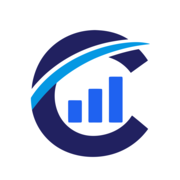
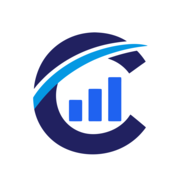
refactor(ui): unify circular product mark rendering

Changed region(s): [[0.1667, 0.1667, 0.8333, 0.8889], [0.25, 0.3889, 0.4167, 0.6389], [0.75, 0.3611, 0.7778, 0.3889]]

diff --git a/src/components/layout/sidebar.tsx b/src/components/layout/sidebar.tsx
@@ -1,11 +1,11 @@
 "use client";
 
-import Image from "next/image";
 import Link from "next/link";
 import { usePathname } from "next/navigation";
 import { PanelLeftClose } from "lucide-react";
 import { Button } from "@/components/ui/button";
 import { Tooltip, TooltipContent, TooltipProvider, TooltipTrigger } from "@/components/ui/tooltip";
+import { CloieLogoMark } from "@/components/brand/cloie-logo-mark";
 import { cn } from "@/lib/utils";
 import type { Role } from "@/lib/constants/roles";
 import {
@@ -22,9 +22,8 @@ import {
 import { ROLES } from "@/lib/constants/roles";
 import { NavigationRow } from "./navigation-row";
 
-// The mark carries no white fills of its own; the dark-mode plate only keeps its
-// navy shapes legible against the dark sidebar.
-const LOGO_CLASS_NAME = "h-10 w-auto dark:bg-white";
+// The plate keeps the navy artwork legible against the dark sidebar.
+const LOGO_CLASS_NAME = "h-10";
 const NAV_ID = "app-sidebar-nav";
 /** A rail delay keeps labels from flickering as the pointer crosses the rail. */
 const TOOLTIP_DELAY = 300;
@@ -354,13 +353,7 @@ function SidebarHeader({ collapsed, onToggle, href, railBelowLg = false }: Sideb
                     "motion-safe:animate-in motion-safe:fade-in-0 motion-safe:duration-150"
                   )}
                 >
-                  <Image
-                    src="/logos/cloie-logo.svg"
-                    alt="System CLOIE"
-                    width={442}
-                    height={500}
-                    className="h-8 w-auto dark:bg-white"
-                  />
+                  <CloieLogoMark className="h-8" />
                 </Button>
               }
             />
@@ -385,13 +378,7 @@ function SidebarHeader({ collapsed, onToggle, href, railBelowLg = false }: Sideb
         aria-label="System CLOIE — Dashboard"
         className="focus-visible:outline-ring flex items-center gap-3 rounded-md transition-opacity hover:opacity-80 focus-visible:outline-2 focus-visible:outline-offset-2"
       >
-        <Image
-          src="/logos/cloie-logo.svg"
-          alt="System CLOIE"
-          width={442}
-          height={500}
-          className={LOGO_CLASS_NAME}
-        />
+        <CloieLogoMark className={LOGO_CLASS_NAME} />
         <span
           className={cn(
             "text-link text-title-lg font-bold tracking-tight",

diff --git a/src/app/page.tsx b/src/app/page.tsx
@@ -1,5 +1,6 @@
 import Image from "next/image";
 import Link from "next/link";
+import { CloieLogoMark } from "@/components/brand/cloie-logo-mark";
 import { Building2, CheckCircle2, GraduationCap, Users, XCircle } from "lucide-react";
 import { PortalChoiceCard, InstallAppButton } from "@/features/portals";
 import { EntryHelpFaq } from "@/features/entry";
@@ -28,13 +29,7 @@ export default function Home() {
       <header className="border-border/80 bg-background/80 relative z-10 border-b backdrop-blur-sm">
         <div className="mx-auto flex w-full max-w-7xl items-center justify-between px-4 py-4 sm:px-6 lg:px-8">
           <div className="flex items-center gap-3">
-            <Image
-              src="/logos/cloie-logo.svg"
-              alt="System CLOIE"
-              width={442}
-              height={500}
-              className="border-border h-9 w-auto shrink-0 rounded border bg-white object-contain p-0.5"
-            />
+            <CloieLogoMark className="h-9" />
             <div className="space-y-0">
               <p className="text-title-md text-link font-bold">System CLOIE</p>
               <p className="text-caption text-muted-foreground">Assumption College of Davao</p>
@@ -66,16 +61,7 @@ export default function Home() {
                 priority
               />
             </div>
-            <div className="border-border flex size-20 items-center justify-center rounded-full border bg-white sm:size-24">
-              <Image
-                src="/logos/cloie-logo.svg"
-                alt="System CLOIE"
-                width={442}
-                height={500}
-                className="h-14 w-auto object-contain sm:h-18"
-                priority
-              />
-            </div>
+            <CloieLogoMark className="size-20 sm:size-24" priority />
           </div>
 
           <h1

diff --git a/src/features/design-system/components/responsive-showcase.tsx b/src/features/design-system/components/responsive-showcase.tsx
@@ -1,4 +1,3 @@
-import Image from "next/image";
 import type { ReactNode } from "react";
 import { cn } from "@/lib/utils";
 import { ROLES } from "@/lib/constants/roles";
@@ -10,6 +9,7 @@ import {
 } from "@/lib/constants/navigation";
 import { NavigationRow, BottomNavRow } from "@/components/layout/navigation-row";
 import { MobileSidebarDrawer } from "@/components/layout/mobile-sidebar-drawer";
+import { CloieLogoMark } from "@/components/brand/cloie-logo-mark";
 
 function Frame({
   title,
@@ -43,13 +43,7 @@ function BrandRow({ rail = false }: { rail?: boolean }) {
         rail ? "justify-center px-2" : "gap-3 px-4"
       )}
     >
-      <Image
-        src="/logos/cloie-logo.svg"
-        alt="System CLOIE"
-        width={442}
-        height={500}
-        className="h-10 w-auto dark:bg-white"
-      />
+      <CloieLogoMark className="h-10" />
       {!rail && (
         <span className="text-title-md text-link font-bold tracking-tight">System CLOIE</span>
       )}
@@ -152,13 +146,7 @@ export function ResponsiveShowcase() {
         >
           <div className="border-sidebar-border flex h-16 shrink-0 items-center justify-between border-b px-3">
             <div className="flex items-center gap-3">
-              <Image
-                src="/logos/cloie-logo.svg"
-                alt="System CLOIE"
-                width={442}
-                height={500}
-                className="h-9 w-auto dark:bg-white"
-              />
+              <CloieLogoMark className="h-9" />
               <span className="text-title-md text-link font-bold tracking-tight">System CLOIE</span>
             </div>
             <MobileSidebarDrawer roles={[ROLES.SECRETARY]} />

diff --git a/src/components/layout/topbar.tsx b/src/components/layout/topbar.tsx
@@ -3,7 +3,6 @@
 import * as React from "react";
 import { useRouter } from "next/navigation";
 import { ChevronDown, LogOut } from "lucide-react";
-import Image from "next/image";
 import {
   DropdownMenu,
   DropdownMenuContent,
@@ -21,6 +20,7 @@ import {
   AlertDialogTitle,
 } from "@/components/ui/alert-dialog";
 import { Button } from "@/components/ui/button";
+import { CloieLogoMark } from "@/components/brand/cloie-logo-mark";
 import { MobileSidebarDrawer } from "./mobile-sidebar-drawer";
 import { AppearanceMenuTrigger } from "@/features/design-system/components/appearance-menu-trigger";
 import type { Role } from "@/lib/constants/roles";
@@ -82,13 +82,7 @@ export function Topbar({
           <MobileSidebarDrawer roles={roles} user={user} activeProgramId={activeProgramId} />
         ) : (
           <>
-            <Image
-              src="/logos/cloie-logo.svg"
-              alt="System CLOIE"
-              width={442}
-              height={500}
-              className="h-9 w-auto dark:bg-white"
-            />
+            <CloieLogoMark className="h-9" />
             <span className="text-title-md text-link font-bold tracking-tight">System CLOIE</span>
           </>
         )}

diff --git a/src/components/layout/mobile-sidebar-drawer.tsx b/src/components/layout/mobile-sidebar-drawer.tsx
@@ -1,11 +1,11 @@
 "use client";
 
 import { useEffect, useRef, useState } from "react";
-import Image from "next/image";
 import Link from "next/link";
 import { usePathname } from "next/navigation";
 import { Menu, X } from "lucide-react";
 import { cn } from "@/lib/utils";
+import { CloieLogoMark } from "@/components/brand/cloie-logo-mark";
 import type { Role } from "@/lib/constants/roles";
 import type { LucideIcon } from "lucide-react";
 import {
@@ -154,13 +154,7 @@ export function MobileSidebarDrawer({
               aria-label="System CLOIE — Dashboard"
               className="focus-visible:outline-ring flex items-center gap-3 rounded-md transition-opacity hover:opacity-80 focus-visible:outline-2 focus-visible:outline-offset-2"
             >
-              <Image
-                src="/logos/cloie-logo.svg"
-                alt="System CLOIE"
-                width={442}
-                height={500}
-                className="h-10 w-auto dark:bg-white"
-              />
+              <CloieLogoMark className="h-10" />
               <span className="text-title-md text-link font-bold tracking-tight">System CLOIE</span>
             </Link>
             <button

diff --git a/src/app/(public)/status/[type]/page.tsx b/src/app/(public)/status/[type]/page.tsx
@@ -2,6 +2,7 @@ import type { Metadata } from "next";
 import { notFound } from "next/navigation";
 import Link from "next/link";
 import Image from "next/image";
+import { CloieLogoMark } from "@/components/brand/cloie-logo-mark";
 import { Button } from "@/components/ui/button";
 import { Card, CardContent, CardDescription, CardHeader, CardTitle } from "@/components/ui/card";
 import {
@@ -213,14 +214,7 @@ export default async function StatusPage({ params, searchParams }: PageProps) {
             height={48}
             className="shrink-0 object-contain"
           />
-          <Image
-            src="/logos/cloie-logo.svg"
-            alt="System CLOIE"
-            width={442}
-            height={500}
-            className="border-border h-12 w-auto shrink-0 rounded border bg-white object-contain p-1"
-            priority
-          />
+          <CloieLogoMark className="h-12" priority />
         </div>
         <h1 className="text-heading-xl text-primary font-bold tracking-tight">System CLOIE</h1>
         <p className="text-label-sm text-muted-foreground mt-1 tracking-wider uppercase">

diff --git a/src/features/entry/components/entry-shell.tsx b/src/features/entry/components/entry-shell.tsx
@@ -1,5 +1,6 @@
 import Image from "next/image";
 import Link from "next/link";
+import { CloieLogoMark } from "@/components/brand/cloie-logo-mark";
 import type { ReactNode } from "react";
 import { BackLink } from "@/components/ui/back-link";
 import { Card, CardContent } from "@/components/ui/card";
@@ -36,16 +37,7 @@ export function EntryShell({
               className="size-12 object-contain sm:size-14"
             />
           </div>
-          <div className="border-border flex size-16 shrink-0 items-center justify-center rounded-full border bg-white sm:size-18">
-            <Image
-              src="/logos/cloie-logo.svg"
-              alt="System CLOIE"
-              width={442}
-              height={500}
-              className="h-12 w-auto object-contain sm:h-14"
-              priority
-            />
-          </div>
+          <CloieLogoMark className="size-16 sm:size-18" priority />
         </div>
         <h1 className="text-heading-lg text-foreground font-bold tracking-tight">{title}</h1>
         <p className="text-body-md text-muted-foreground mt-2">{description}</p>

diff --git a/src/features/legal/components/legal-page-shell.tsx b/src/features/legal/components/legal-page-shell.tsx
@@ -1,5 +1,5 @@
-import Image from "next/image";
 import Link from "next/link";
+import { CloieLogoMark } from "@/components/brand/cloie-logo-mark";
 import { Separator } from "@/components/ui/separator";
 import type { LegalDocument } from "../types";
 import { LegalDocumentContent } from "./legal-document-content";
@@ -24,13 +24,7 @@ export function LegalPageShell({ document }: { document: LegalDocument }) {
             href="/"
             className="focus-visible:ring-ring flex items-center gap-3 rounded-md focus-visible:ring-2 focus-visible:outline-none"
           >
-            <Image
-              src="/logos/cloie-logo.svg"
-              alt="System CLOIE"
-              width={442}
-              height={500}
-              className="border-border h-9 w-auto shrink-0 rounded border bg-white object-contain p-0.5"
-            />
+            <CloieLogoMark className="h-9" />
             <span className="text-title-md text-link font-bold">System CLOIE</span>
           </Link>
           <nav aria-label="Public navigation" className="flex items-center gap-4 text-sm">

diff --git a/src/app/(public)/login/page.tsx b/src/app/(public)/login/page.tsx
@@ -1,6 +1,7 @@
 import { redirect } from "next/navigation";
 import Image from "next/image";
 import Link from "next/link";
+import { CloieLogoMark } from "@/components/brand/cloie-logo-mark";
 import { Card, CardContent, CardDescription, CardHeader, CardTitle } from "@/components/ui/card";
 import { Alert, AlertDescription, AlertTitle } from "@/components/ui/alert";
 import { AlertCircle } from "lucide-react";
@@ -33,14 +34,7 @@ export default async function LoginPage({
             height={56}
             className="shrink-0 object-contain"
           />
-          <Image
-            src="/logos/cloie-logo.svg"
-            alt="System CLOIE"
-            width={442}
-            height={500}
-            className="border-border h-14 w-auto shrink-0 rounded border bg-white object-contain p-1"
-            priority
-          />
+          <CloieLogoMark className="h-14" priority />
         </div>
         <h1 className="text-display-md text-primary font-bold tracking-tight">System CLOIE</h1>
         <p className="text-muted-foreground mt-2 text-center">

diff --git a/src/components/brand/cloie-logo-mark.tsx b/src/components/brand/cloie-logo-mark.tsx
@@ -1,0 +1,35 @@
+import Image from "next/image";
+import { cn } from "@/lib/utils";
+
+/**
+ * The System CLOIE product mark on its brand-safe plate: a white circle with a
+ * hairline border, never a rectangular frame. The circle keeps the navy artwork
+ * legible on dark surfaces and anchors the brand as a coin in every theme.
+ * Size it from the outside (`className="h-9"`, `size-16 sm:size-18`); the
+ * artwork keeps the mark's native 442 × 500 aspect centered in the plate.
+ */
+export function CloieLogoMark({
+  className,
+  priority = false,
+}: {
+  className?: string;
+  priority?: boolean;
+}) {
+  return (
+    <span
+      className={cn(
+        "border-border flex aspect-square shrink-0 items-center justify-center rounded-full border bg-white shadow-sm",
+        className
+      )}
+    >
+      <Image
+        src="/logos/cloie-logo.svg"
+        alt="System CLOIE"
+        width={442}
+        height={500}
+        className="h-[78%] w-auto"
+        priority={priority}
+      />
+    </span>
+  );
+}

diff --git a/src/__tests__/app/public-entry-routes.test.tsx b/src/__tests__/app/public-entry-routes.test.tsx
@@ -80,10 +80,10 @@ describe("Public entry routes", () => {
     const seal = screen.getByRole("img", { name: "Assumption College of Davao seal" });
     const mark = screen.getByRole("img", { name: "System CLOIE" });
     for (const logo of [seal, mark]) {
-      expect(logo.parentElement).toHaveClass("size-16", "sm:size-18", "bg-white");
-      expect(logo).toHaveClass("object-contain");
+      expect(logo.parentElement).toHaveClass("size-16", "sm:size-18", "bg-white", "rounded-full");
     }
-    expect(mark).toHaveClass("h-12", "sm:h-14", "w-auto");
+    expect(seal).toHaveClass("object-contain");
+    expect(mark).toHaveClass("h-[78%]", "w-auto");
   });
 
   it("faculty registration starts signed-out users with Google before any form", async () => {

diff --git a/src/__tests__/app/landing-page.test.tsx b/src/__tests__/app/landing-page.test.tsx
@@ -39,13 +39,11 @@ describe("Landing page", () => {
     expect(externalCard.getAttribute("href")).toBe("/login/external");
   });
 
-  it("keeps each audience card a single link with shared large-action styling", () => {
+  it("keeps each audience card a single link", () => {
     renderHome();
     for (const name of ["Students", "Staff & Faculty", "Alumni & Partners"]) {
       const card = screen.getByRole("link", { name: `Sign in: ${name}` });
       expect(card.querySelector("button, a")).toBeNull();
-      const action = card.querySelector('span[aria-hidden="true"]');
-      expect(action).toHaveClass("min-h-12", "text-base", "bg-primary");
     }
   });
 
